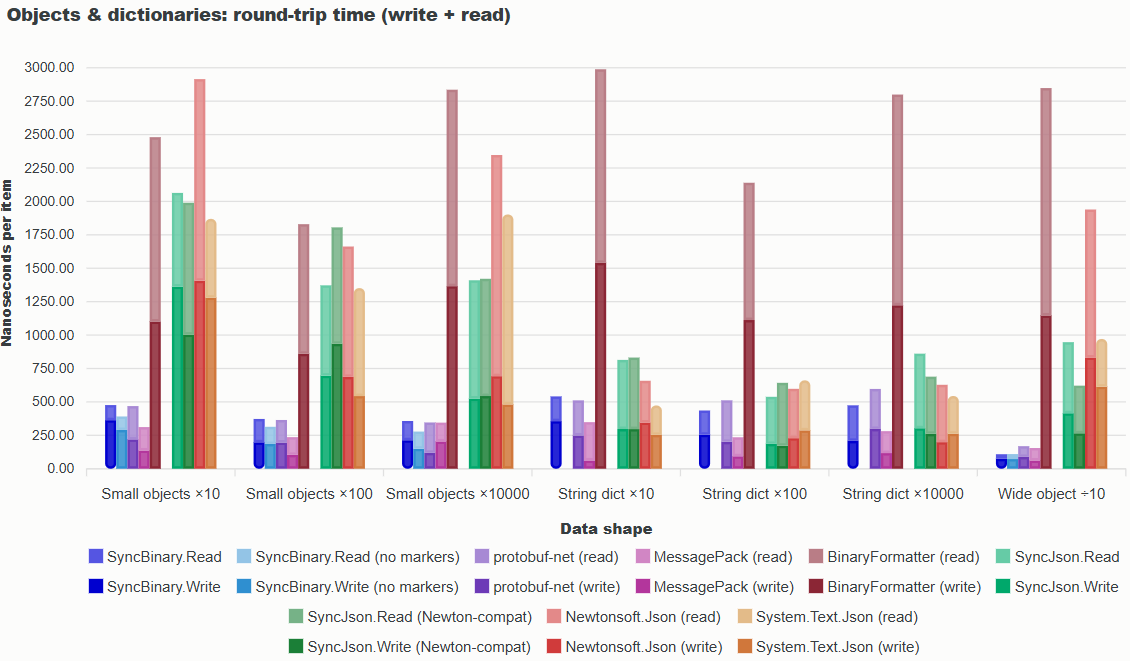
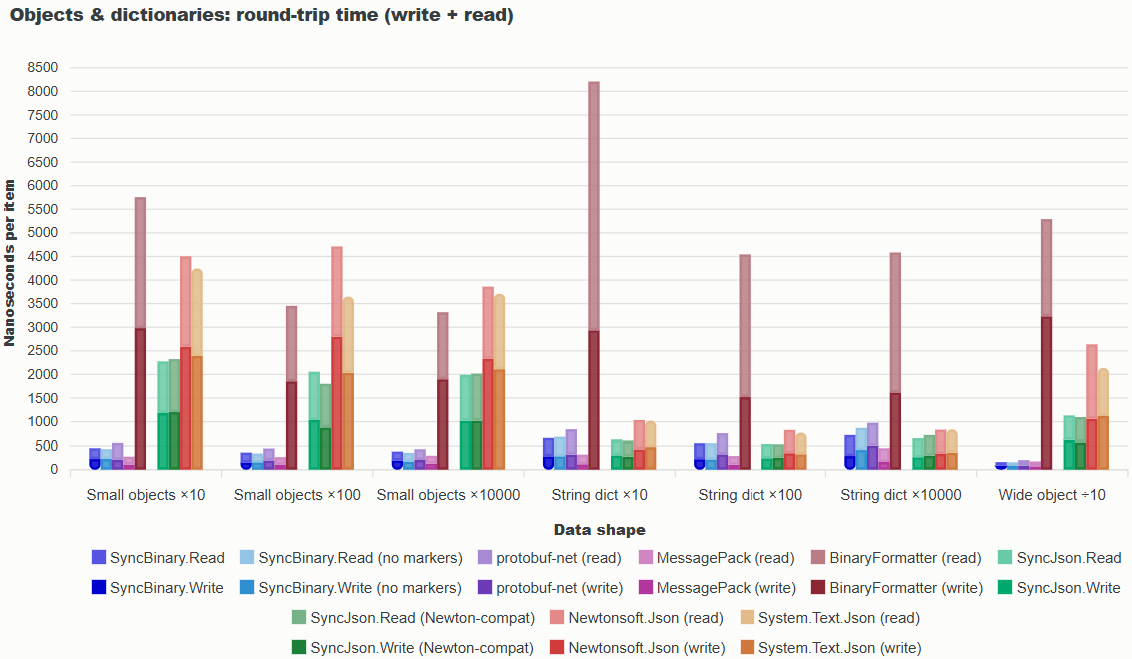
Update SyncLib benchmarks

Changed region(s): [[0.0, 0.091, 0.9912, 0.7587], [0.0619, 0.7891, 0.9912, 1.0], [0.0, 0.0, 0.4646, 0.0303]]

diff --git a/synclib/index.md b/synclib/index.md
@@ -278,8 +278,10 @@ public class JsonCalendarSerialization
 
 Shared business classes (`Calendar` and `CalendarEntry`) are the same for both and not shown. See the full runnable example in [HomePageCalendarExample.cs](https://github.com/qwertie/ecsharp/blob/master/Core/Tests/SyncLib/HomePageCalendarExample.cs).
 
-## And it's fast
+## And it's fast!
 
-![benchmarks](benchmark1.png)
+![Benchmarks 1](benchmark1.png)
+![Benchmarks 2](benchmark2.png)
+![Benchmarks 3](benchmark3.png)
 
 For more, read the [SyncLib manual](./manual).
